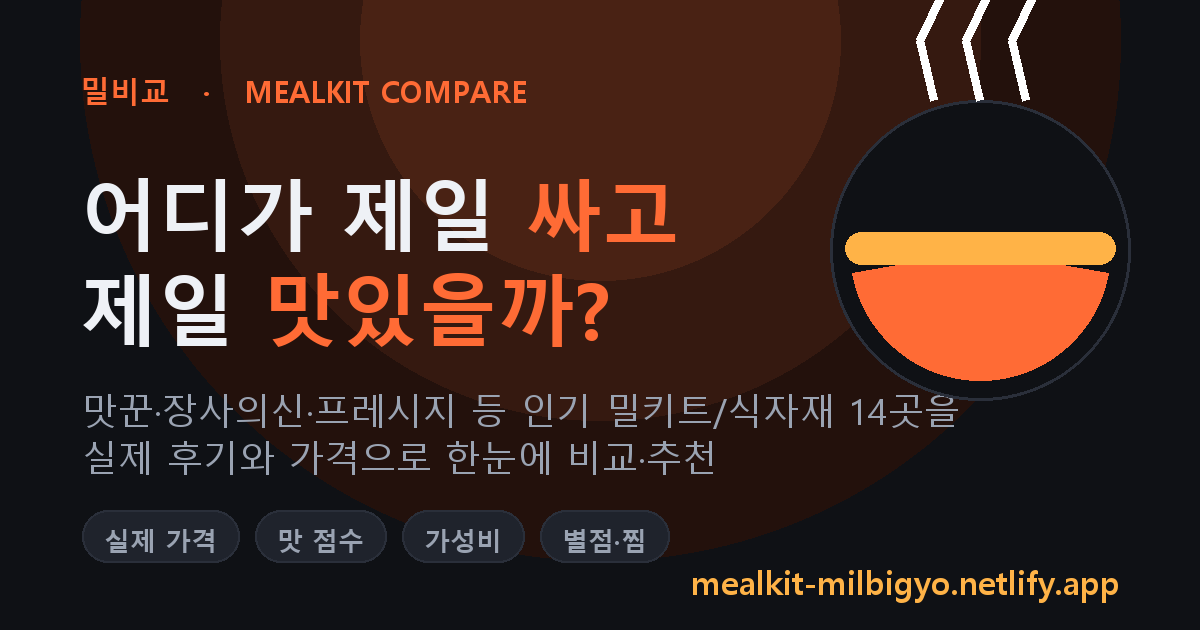
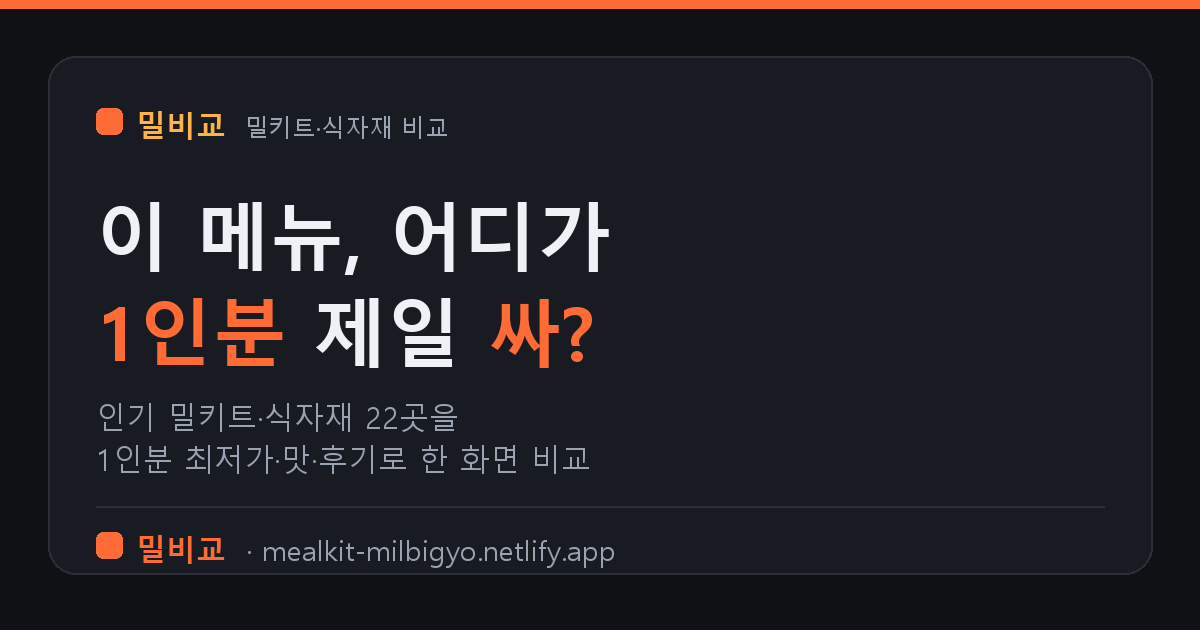
정직한 비교 강화: 구매 전 체크포인트(note) 9곳 + 단점공략 가이드글·경쟁 포지셔닝, og 썸네일 교체
- index.html: SITES에 note 필드(대표상품가/대용량/냉동 등 중립 사실 안내) 9곳 추가,
  카드·비교박스에 '💡 구매 전 체크포인트' 노출 (경쟁 제휴글이 안 하는 정직한 비교)
- article-fail.html 신설: '밀키트 단점·실패 없이 고르는 법'(단점·후회 검색수요 흡수)
- about.html: 블로그리뷰/단순가격비교 대비 차별점 단락 추가
- guide.html·sitemap.xml: 새 글 등록
- og-image.png: 공유 카피를 '이 메뉴, 어디가 1인분 제일 싸?'로 교체

diff --git a/article-fail.html b/article-fail.html
@@ -1,0 +1,91 @@
+<!DOCTYPE html>
+<html lang="ko">
+<head>
+<meta charset="UTF-8" />
+<meta name="google-site-verification" content="xKKQDNOhxiDTMU0UMuDE1-0OSlkr9ttbs6BjrEB0yu8" />
+<meta name="viewport" content="width=device-width, initial-scale=1.0" />
+<title>밀키트 단점·실패 없이 고르는 법 — 후회하기 전에 볼 5가지 | 밀비교</title>
+<meta name="description" content="양 적음·고기 잡내·비닐쓰레기·맛 편차 등 밀키트 단점과 실패 사례를 솔직하게 정리하고, 구매 전 체크포인트로 후회를 줄이는 법을 안내합니다." />
+<link rel="canonical" href="https://mealkit-milbigyo.netlify.app/article-fail.html" />
+<link rel="stylesheet" href="style.css" />
+</head>
+<body>
+<nav class="nav"><div class="nav-in">
+  <a class="brand" href="index.html">🍲 밀비교</a>
+  <div class="links">
+    <a href="index.html">비교·추천</a>
+    <a class="on" href="guide.html">가이드</a>
+    <a href="about.html">소개</a>
+  </div>
+</div></nav>
+
+<div class="wrap">
+  <div class="phead">
+    <div class="kk">가이드</div>
+    <h1>밀키트 단점·실패 없이 고르는 법</h1>
+    <p class="meta-date">밀비교 편집팀 · 2026년 6월</p>
+  </div>
+
+  <article>
+    <p class="lead">밀키트가 편한 건 분명하지만, "돈은 썼는데 후회했다"는 후기도 적지 않습니다.
+    장점만 늘어놓는 글은 많아도 단점을 솔직히 짚는 글은 드물죠. 그래서 가장 자주 나오는 실패 5가지와
+    각각을 피하는 법을 정리했습니다. 이것만 체크해도 재구매 후회를 크게 줄일 수 있어요.</p>
+
+    <h2>1. '2인분' 표기의 함정 — 생각보다 양이 적다</h2>
+    <p>가장 흔한 불만이 <strong>양</strong>입니다. 같은 "2인분"이라도 브랜드마다 기준이 달라서,
+    총중량 700g과 1.2kg는 체감이 완전히 다릅니다. 표기 인분 수만 믿고 샀다가
+    "둘이 먹기엔 부족하더라"는 후기가 자주 나오는 이유예요.</p>
+    <p><strong>회피법</strong> — 인분 수 대신 <strong>총중량(g)</strong>과 구성을 보세요. 국물류는 건더기 중량,
+    고기류는 고기 g수가 핵심입니다. 후기에 "둘이 먹기 충분/부족" 같은 표현이 있으면 꼭 참고하세요.</p>
+
+    <h2>2. 냉장/냉동·유통기한을 놓쳐 버리게 된다</h2>
+    <p>냉장 밀키트는 보통 구매 후 3~4일 안에 먹어야 하는 신선식품입니다.
+    쟁여두려고 여러 개 샀다가 유통기한을 넘겨 버리는 경우가 의외로 많아요.
+    반대로 냉동인 줄 알았는데 냉장이라 당황하는 경우도 있습니다.</p>
+    <p><strong>회피법</strong> — 구매 전 <strong>냉장/냉동 여부와 유통기한</strong>을 확인하세요.
+    천천히 먹고 싶다면 보관 기간이 긴 냉동 제품이 유리합니다.
+    한 번에 많이 사기보다 먹을 만큼만 주문하는 편이 낭비가 적어요.</p>
+
+    <h2>3. 고기 원산지·잡내로 맛이 무너진다</h2>
+    <p>고기·해산물이 메인인 메뉴는 원산지가 맛을 좌우합니다.
+    후기에서 "고기가 질기다", "잡내가 난다"는 평이 반복된다면 원산지나 부위 문제일 가능성이 높아요.
+    소스는 좋은데 핵심 재료에서 실패하면 한 끼 전체가 아쉬워집니다.</p>
+    <p><strong>회피법</strong> — 메인 재료의 <strong>원산지·부위 표기</strong>를 확인하고,
+    최근 후기에서 잡내·식감 관련 언급이 잦은지 살펴보세요. 아이와 함께 먹는다면 첨가물 표기도 한 번 더 보는 걸 권합니다.</p>
+
+    <h2>4. 비닐쓰레기·과대구성에 실망한다</h2>
+    <p>소스·재료가 각각 따로 소포장되어 오다 보니, 한 끼 먹고 나면 <strong>비닐·플라스틱 쓰레기</strong>가 한가득인 경우가 많습니다.
+    "음식보다 포장이 더 많아 보인다"는 불만이 대표적이에요. 구성품이 많다고 무조건 푸짐한 것도 아닙니다.</p>
+    <p><strong>회피법</strong> — 후기 사진으로 <strong>실제 구성과 포장 상태</strong>를 미리 확인하세요.
+    분리배출이 부담된다면 구성이 단순한 완조리형이나 묶음 포장 제품이 마음 편합니다.</p>
+
+    <h2>5. 맛 편차가 커서 재구매를 후회한다</h2>
+    <p>밀키트는 같은 제품도 사람마다, 때로는 입고 시기마다 맛 평가가 갈립니다.
+    별점은 높은데 후기가 10개뿐이면 신뢰도가 낮고, 1~2년 전 후기는 지금 맛·구성과 다를 수 있어요.
+    "광고만 보고 샀다가 입맛에 안 맞았다"는 후회가 여기서 나옵니다.</p>
+    <p><strong>회피법</strong> — 별점보다 <strong>후기의 수와 최신성</strong>을 함께 보세요.
+    후기가 수천 개로 많고 최근 평이 일관되게 좋다면 실패 확률이 낮습니다.
+    처음 먹는 브랜드는 한 개만 사서 맛을 본 뒤 재구매하는 게 안전해요.</p>
+
+    <div class="tip"><b>요약</b> — ① 인분 표기 말고 총중량 ② 냉장/냉동·유통기한 ③ 고기 원산지·잡내
+    ④ 포장·구성 ⑤ 후기 수·최신성. 이 다섯 가지만 사기 전에 확인하면 "재구매 후회"가 확 줄어듭니다.</div>
+
+    <p>밀키트의 단점은 대부분 <strong>"사기 전에 정보를 못 봐서"</strong> 생깁니다.
+    그래서 밀비교는 22곳을 <strong>1인분 환산가격 + 공개 후기 기반 점수 + 구매 전 체크포인트</strong>까지
+    한 화면에 모아 보여줍니다. 장점만 나열하는 대신, 무엇을 따져봐야 하는지까지 정직하게 비교할 수 있어요.
+    (점수는 공개된 후기·판매 정보를 종합한 참고용 추정치입니다.)</p>
+
+    <a class="cta" href="index.html">🔎 체크포인트까지 보고 22곳 비교하기</a>
+  </article>
+</div>
+
+<footer>
+  <div class="frow">
+    <a href="index.html">비교·추천</a> · <a href="guide.html">밀키트 가이드</a> ·
+    <a href="about.html">소개</a> · <a href="privacy.html">개인정보처리방침</a>
+  </div>
+  <div>🍲 밀비교 — 실제 후기·가격으로 비교하는 밀키트 추천 서비스</div>
+  <div>문의: [email redacted] · © 2026 밀비교. 가격·맛 점수는 참고용 추정치입니다.</div>
+</footer>
+</body>
+</html>

diff --git a/index.html b/index.html
@@ -245,6 +245,11 @@
   .quote{background:#12151b;border-left:3px solid var(--accent);padding:10px 14px;
     border-radius:0 10px 10px 0;font-size:13px;color:#c7cedb;font-style:italic}
   .quote .src{display:block;font-style:normal;color:var(--sub);font-size:11px;margin-top:6px}
+  .note{display:flex;gap:6px;align-items:flex-start;background:#16140e;
+    border-left:3px solid var(--accent2);border-radius:0 10px 10px 0;
+    padding:8px 12px;font-size:12px;color:var(--sub);line-height:1.5}
+  .note b{color:var(--accent2);font-weight:700;white-space:nowrap}
+  .cmp-note{margin-top:10px;font-size:12px;color:var(--sub);line-height:1.5}
   .links{display:flex;gap:8px;flex-wrap:wrap}
   .btn{font-size:13px;padding:8px 14px;border-radius:10px;border:1px solid var(--line);
     background:var(--card2);cursor:pointer;font-weight:600;transition:.15s;display:inline-block}
@@ -469,6 +474,7 @@ const SITES = [
     menus:["곱창","막창","대창","염통","소곱창","순두부","돈가스","대용량 식자재","펜네"],
     img:"https://shopping-phinf.pstatic.net/main_8887530/88875309156.2.jpg",
     quote:"건더기가 700~800g 정도로 넉넉해서 둘이 먹기에도 충분. 대용량 식자재를 합리적으로 공급.",
+    note:"자영업용 대용량 구성이 많아 1~2인은 양·보관 공간 확인이 필요해요.",
     src:"네이버 블로그 2주 시식 정리 후기",
     url:"https://search.shopping.naver.com/search/all?query=장사의신+밀키트"
   },
@@ -545,6 +551,7 @@ const SITES = [
     img:null,
     official:"https://emart.ssg.com",
     quote:"역대급 가성비 할인. 매달 식단 골라담으면 식비 절약에 캠핑 밀키트로도 좋음.",
+    note:"표시가는 월별 할인 행사가 기준이라 시기·점포에 따라 실제 가격이 달라요.",
     src:"네이버 블로그 고래잇 월식단 정리",
     url:"https://search.shopping.naver.com/search/all?query=이마트+고래잇+밀키트"
   },
@@ -597,6 +604,7 @@ const SITES = [
     img:"https://shopping-phinf.pstatic.net/main_5485289/54852890572.1.jpg",
     official:"https://emart.ssg.com",
     quote:"맛은 무난·평범하지만 이 가격이면 충분. 자취·비상식량으로 쟁여두기 좋음.",
+    note:"대표 구성이 2개입 묶음이라 1인분 환산가는 묶음 기준으로 계산했어요.",
     src:"네이버 쇼핑 노브랜드 부대찌개",
     url:"https://search.shopping.naver.com/search/all?query=노브랜드+밀키트"
   },
@@ -647,6 +655,7 @@ const SITES = [
     menus:["감자탕","통닭","마라탕","떡볶이","곱창","원팩"],
     img:null,
     quote:"고기도 부드러워 맛과 가성비 둘 다 잡은 감자탕 밀키트. 핏물 빼는 번거로움 없이 간편.",
+    note:"냉동 제품이라 보관에 냉동실 공간이 필요해요.",
     src:"네이버 블로그 쿠캣 점보감자탕 내돈내산 후기",
     url:"https://search.shopping.naver.com/search/all?query=쿠캣+밀키트"
   },
@@ -672,6 +681,7 @@ const SITES = [
     menus:["닭가슴살","저당도시락","다이어트","도시락","고단백","런치백"],
     img:"https://shopping-phinf.pstatic.net/main_5413348/54133487954.2.jpg",
     quote:"잡내 적고 촉촉한 편. 한 끼 단백질·식단 관리용으로 냉동 쟁여두기 좋아요.",
+    note:"대표 구성이 10개입 냉동 묶음이라 1인분가는 묶음 기준, 냉동 보관이 필요해요.",
     src:"네이버쇼핑 한끼통살 저당도시락",
     url:"https://search.shopping.naver.com/search/all?query=한끼통살+도시락"
   },
@@ -685,6 +695,7 @@ const SITES = [
     img:"https://shopping-phinf.pstatic.net/main_5824357/58243578144.20251223143510.jpg",
     official:"https://www.dolfarmer.com",
     quote:"박스 열자마자 신선함이 느껴져요. 리뷰 수가 워낙 많아 믿고 샀는데 꽃게 알도 꽉 차 대성공.",
+    note:"표시가는 1인분이 아니라 대표상품가 기준이에요.",
     src:"네이버 블로그 돌쇠네농산물 내돈내산 후기",
     url:"https://search.shopping.naver.com/search/all?query=돌쇠네농산물"
   },
@@ -698,6 +709,7 @@ const SITES = [
     img:null,
     official:"https://www.oasis.co.kr",
     quote:"유기농업계 관계자도 인정한 품질과 가성비. 두부·콩나물이 특히 신선하다는 평.",
+    note:"표시가는 1인분이 아니라 대표상품가 기준이에요.",
     src:"네이버 블로그 오아시스마켓 상품추천 후기",
     url:"https://search.shopping.naver.com/search/all?query=오아시스마켓"
   },
@@ -711,6 +723,7 @@ const SITES = [
     img:null,
     official:"https://www.jeongyukgak.com",
     quote:"도축 후 빠른 배송이라 확실히 신선. 한우 선물세트도 만족, 구울 때 잡내가 없어요.",
+    note:"표시가는 1인분이 아니라 대표상품가 기준이에요.",
     src:"네이버 블로그 정육각 내돈내산 후기",
     url:"https://search.shopping.naver.com/search/all?query=정육각"
   },
@@ -723,6 +736,7 @@ const SITES = [
     menus:["제철농산물","사과","감자","채소","로컬푸드","직거래","산지직송"],
     img:null,
     quote:"농가에서 바로 보내줘 중간 유통이 줄어 신선한데 가격도 착해요. 퀄리티 좋아 재구매.",
+    note:"표시가는 1인분이 아니라 대표상품가 기준이에요.",
     src:"네이버 블로그 충남 농사랑 직거래 후기",
     url:"https://search.shopping.naver.com/search/all?query=충남+농사랑+농산물"
   }
@@ -778,7 +792,11 @@ function renderCompare(list, q){
       cell("💰 1인분 최저가", cheapest, won(cheapest.won)+"원")+
       cell("😋 맛 1위", tasty, fmt(tasty.taste)+"점")+
       cell("⚖️ 가성비 1위", best, fmt(valueScore(best))+"점")+
-    `</div>`;
+    `</div>`+
+    (()=>{ const noted = list.filter(s=>s.note).map(s=>s.name.split(" (")[0]);
+      return noted.length
+        ? `<div class="cmp-note">💡 ${noted.slice(0,3).join(", ")}${noted.length>3?" 등":""}은(는) 구매 전 체크포인트가 있어요. 카드에서 확인하세요.</div>`
+        : ""; })();
   box.classList.add("show");
 }
 
@@ -913,6 +931,8 @@ function render(){
       </div>
 
       <div class="quote">“${hl(s.quote,q)}”<span class="src">— ${s.src}</span></div>
+
+      ${s.note?`<div class="note"><b>💡 구매 전 체크</b><span>${hl(s.note,q)}</span></div>`:""}
 
       <div class="meta">
         <span>🍽️ 메뉴: <b>${s.cats.join(", ")}</b></span>

diff --git a/about.html b/about.html
@@ -32,6 +32,15 @@
     <strong>1인분 환산가격</strong>과 <strong>실제 후기 기반 점수</strong>로 한 화면에서 비교하고 추천해 주는 서비스입니다.
     "인스타·인터넷에 광고는 많은데 어디가 진짜 싸고 맛있는지 모르겠다"는 고민에서 출발했습니다.</p>
 
+    <h2>블로그 리뷰·단순 가격비교와 뭐가 다른가요?</h2>
+    <p>밀비교는 한 곳을 깊게 소개하는 리뷰도, 가격만 줄세우는 비교도 아닙니다. 다음 네 가지를 한 화면에 모았습니다.</p>
+    <ul>
+      <li><strong>한 곳이 아니라 22곳을 한 화면에서</strong> 비교합니다. 따로 검색해 가며 비교할 필요가 없습니다.</li>
+      <li><strong>매주 데이터를 다시 수집해 갱신</strong>합니다. 한번 쓰고 방치되는 글이 아니라 최신 가격·후기를 반영합니다.</li>
+      <li><strong>총액이 아니라 1인분 환산가격</strong>으로 봅니다. 인분 수가 다른 제품도 같은 기준으로 비교됩니다.</li>
+      <li><strong>장점뿐 아니라 구매 전 체크포인트</strong>까지 보여줍니다. 양·원산지·후기 편차 같은 따져볼 점을 함께 안내합니다.</li>
+    </ul>
+
     <h2>점수는 어떻게 매기나요?</h2>
     <p>각 사이트는 세 가지 축으로 평가하고, 이를 합쳐 '가성비 종합' 점수를 만듭니다.</p>
     <table class="cmp">

diff --git a/guide.html b/guide.html
@@ -72,6 +72,11 @@
         <div class="d">메뉴마다 다른 비교 포인트와, 메인에서 메뉴를 검색하면 1인분 최저가·맛 1위가 바로 뜨는 법.</div>
         <span class="more">자세히 보기 →</span>
       </a>
+      <a class="gcard" href="article-fail.html">
+        <div class="t">⑥ 밀키트 단점·실패 없이 고르는 법</div>
+        <div class="d">양 적음·고기 잡내·비닐쓰레기·맛 편차 등 자주 나오는 실패 5가지와, 사기 전에 볼 체크포인트.</div>
+        <span class="more">자세히 보기 →</span>
+      </a>
       <a class="gcard" href="index.html">
         <div class="t">🔎 지금 바로 가격·맛 비교하기</div>
         <div class="d">맛꾼·장사의신·프레시지 등 22곳을 1인분 가격과 후기 점수로 비교·추천.</div>